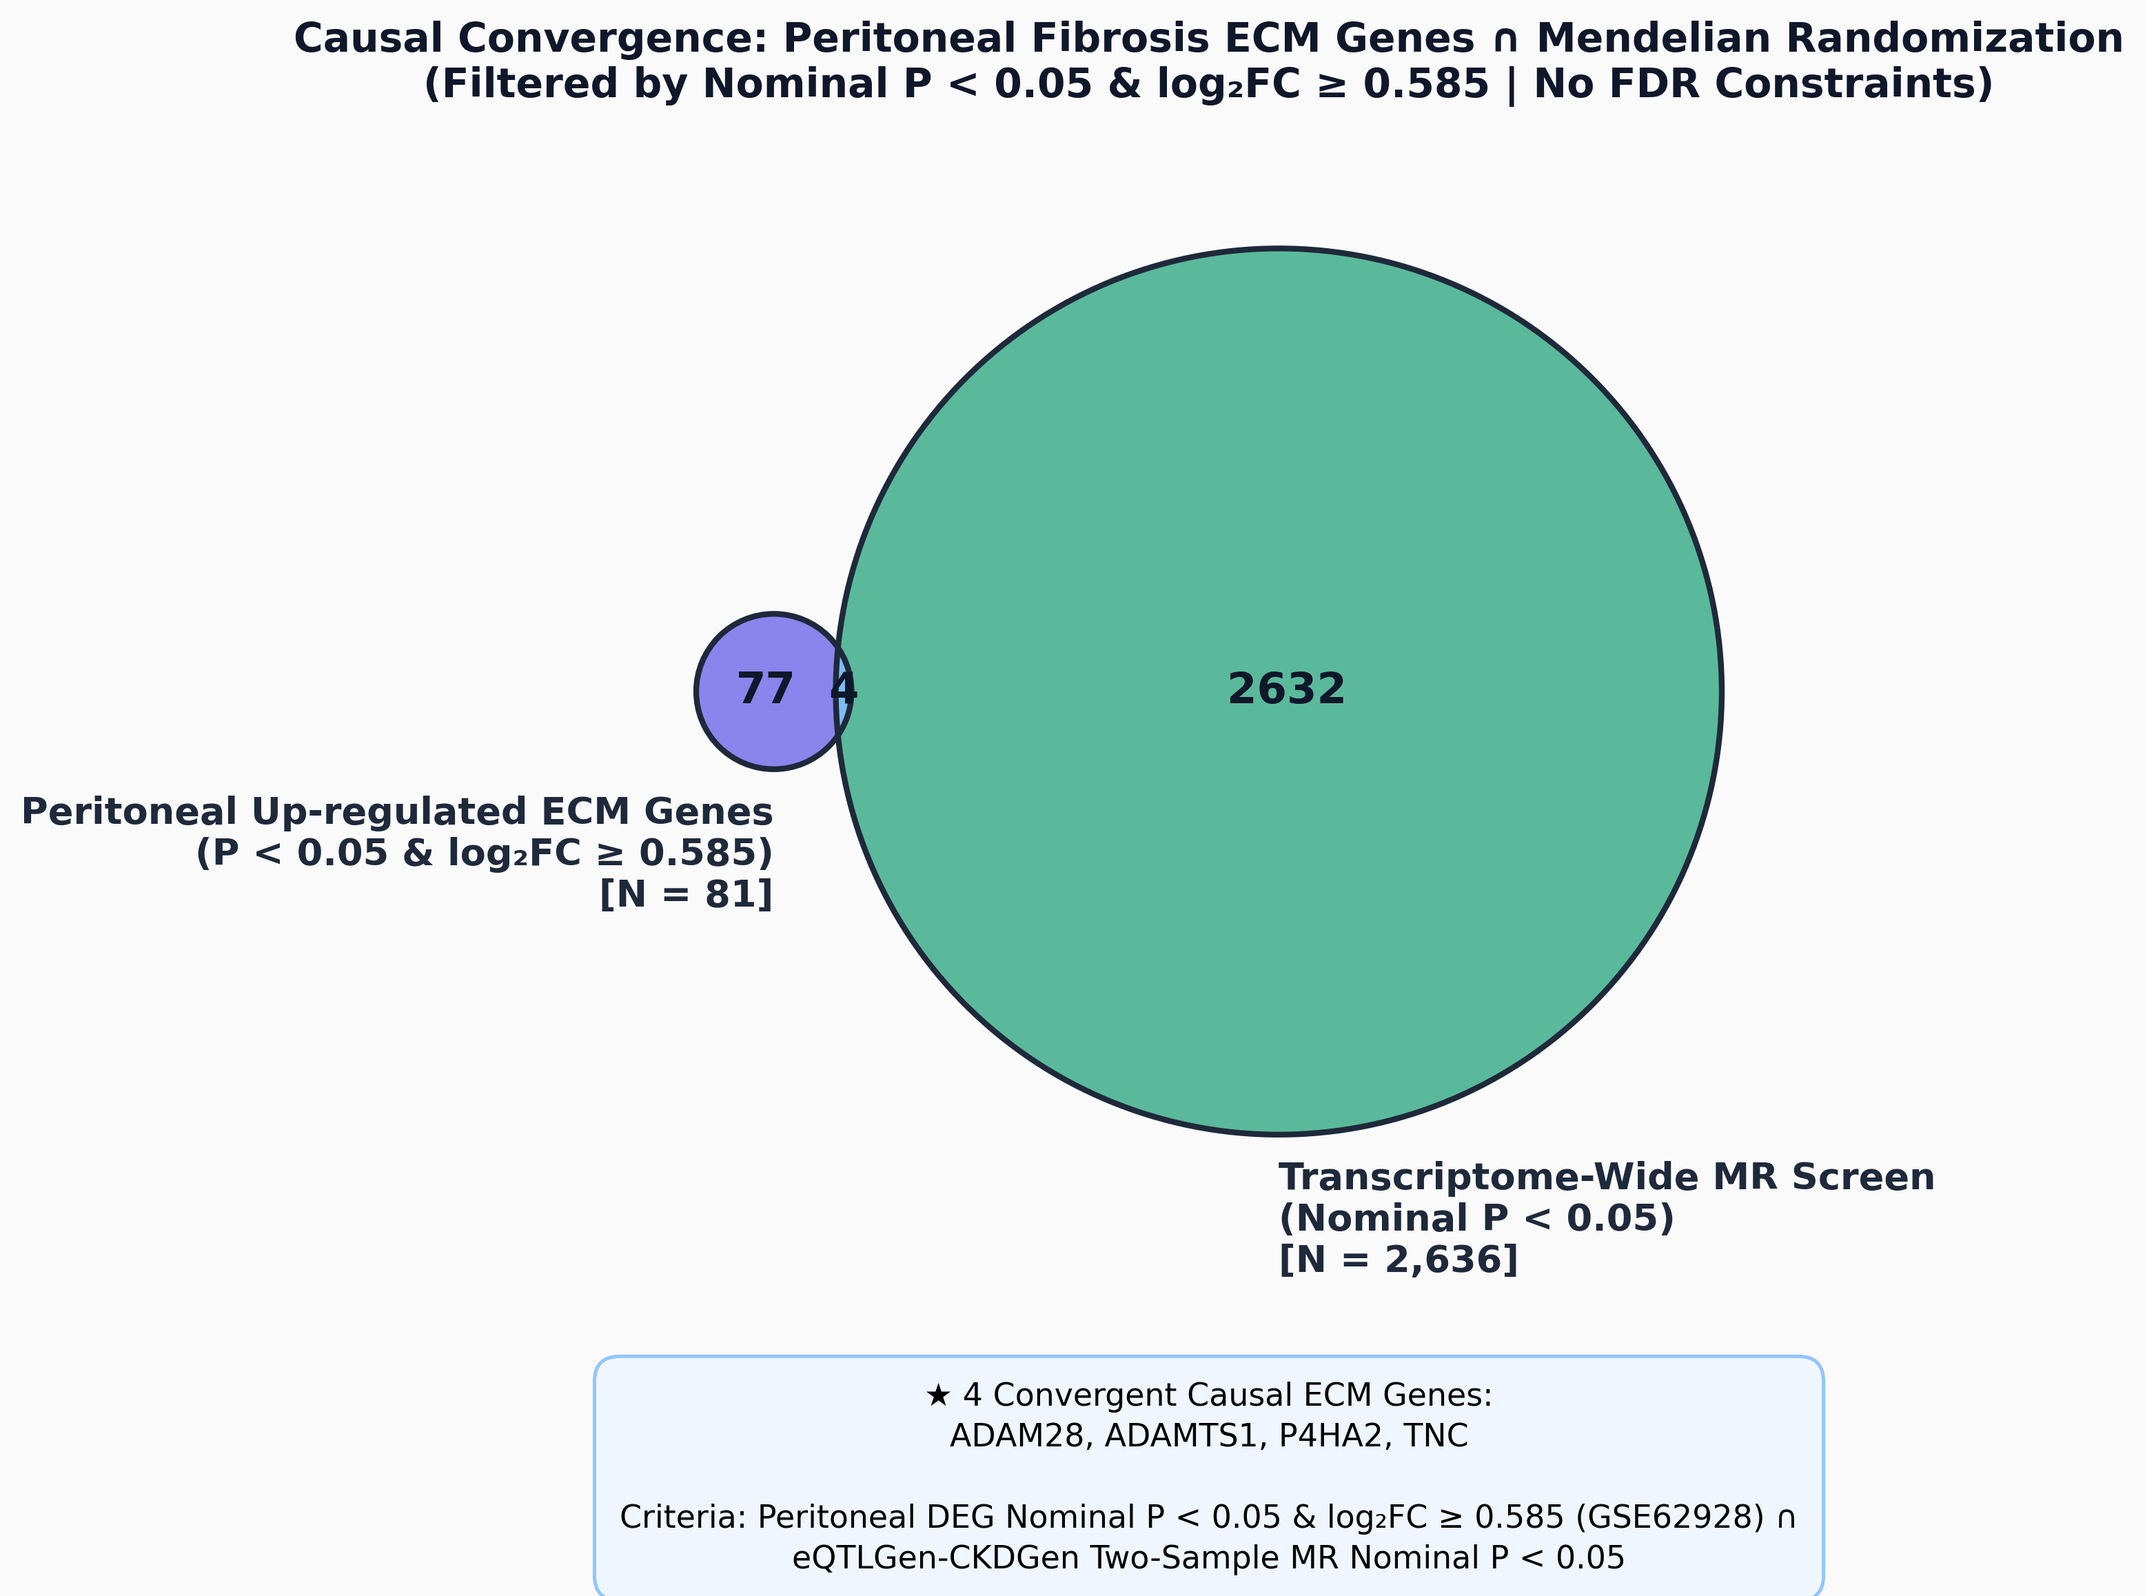
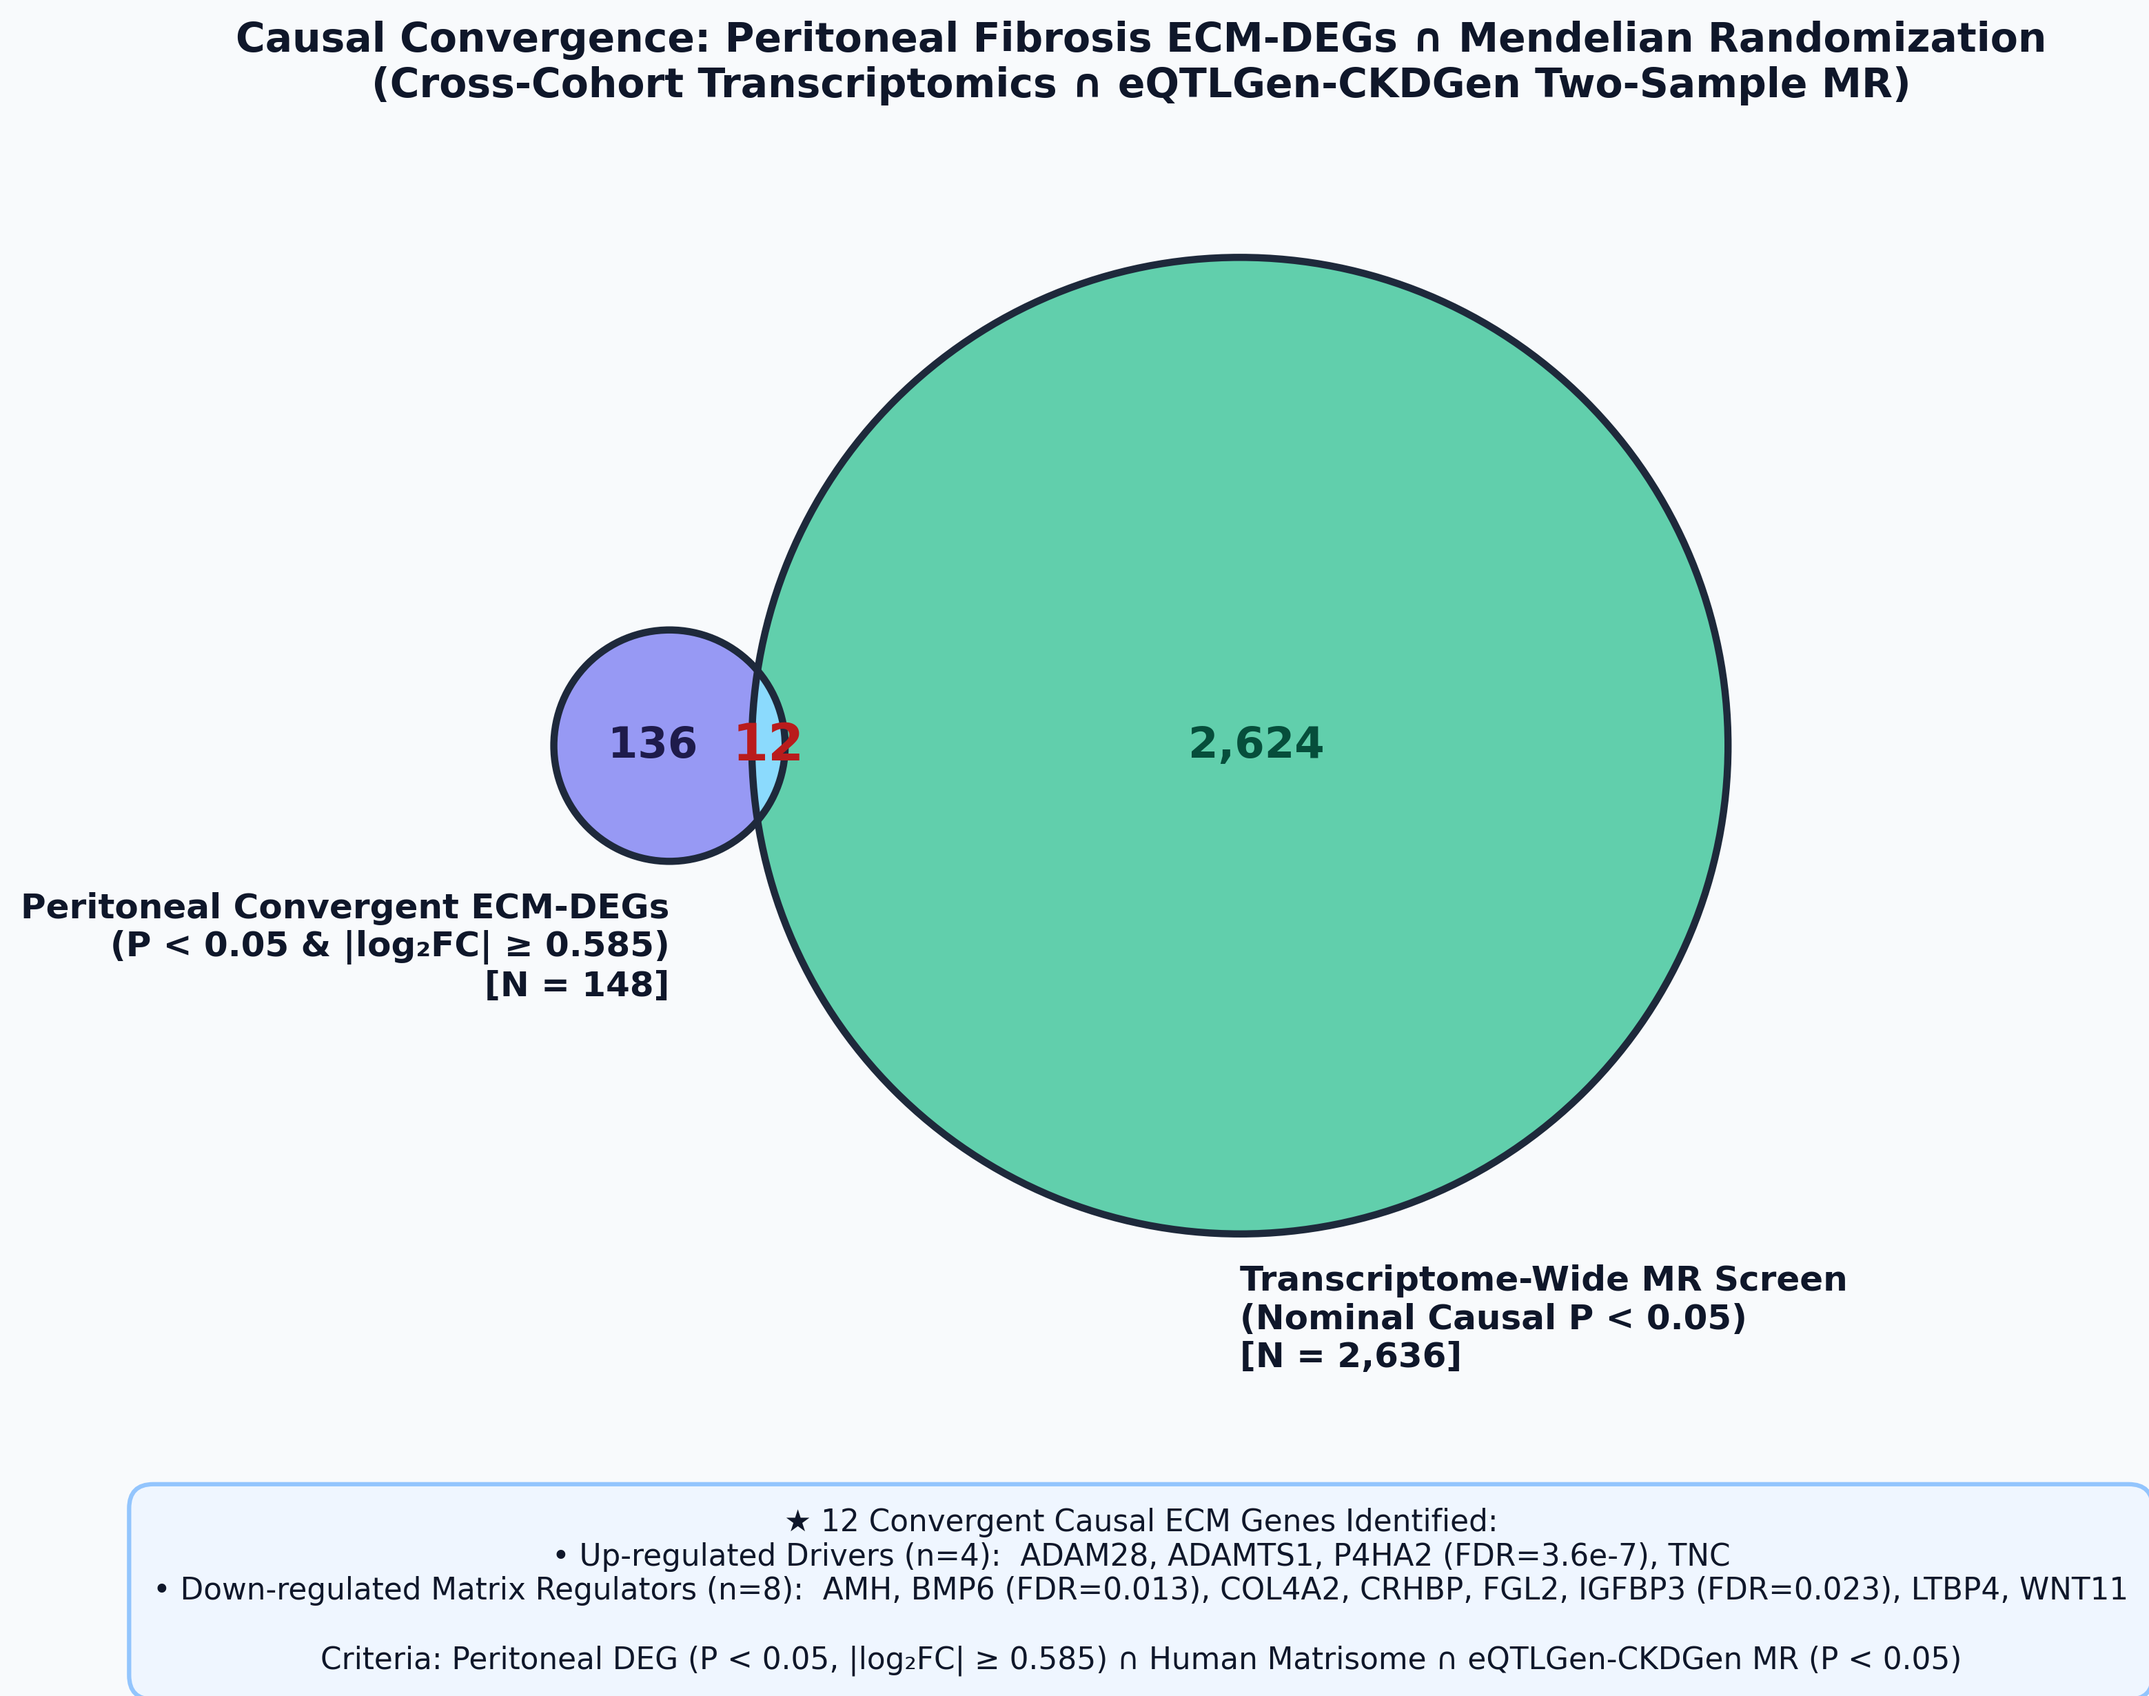
Update Venn diagram convergence to reflect all 12 causal ECM-DEGs (drivers and matrix regulators)

diff --git a/generate_12_gene_venn.py b/generate_12_gene_venn.py
@@ -1,0 +1,103 @@
+import os
+import pandas as pd
+import matplotlib.pyplot as plt
+from matplotlib_venn import venn2, venn2_circles
+
+# 1. Load Data
+df_ecm_deg = pd.read_csv('convergent_ECM_DEGs_nominal.csv')
+df_mr_sig = pd.read_csv('mr_significant_genes.csv')
+
+# Extract unique gene symbols
+genes_ecm_deg = set(df_ecm_deg['Gene Symbol'].dropna().str.strip().str.upper().unique())
+mr_genes = set(df_mr_sig['GeneSymbol'].dropna().str.strip().str.upper().unique())
+
+# Compute overlap
+overlap_genes = sorted(list(genes_ecm_deg.intersection(mr_genes)))
+
+n_ecm = len(genes_ecm_deg)    # 148 unique genes
+n_mr = len(mr_genes)          # 2636 unique genes
+n_overlap = len(overlap_genes) # 12 unique genes
+
+df_deg_info = df_ecm_deg.drop_duplicates(subset=['Gene Symbol'])
+up_genes = [g for g in overlap_genes if df_deg_info[df_deg_info['Gene Symbol'] == g]['Direction'].values[0] == 'UP']
+down_genes = [g for g in overlap_genes if df_deg_info[df_deg_info['Gene Symbol'] == g]['Direction'].values[0] == 'DOWN']
+
+# 2. Create High-Resolution Publication Figure
+fig, ax = plt.subplots(figsize=(11, 8.5), facecolor="#F8FAFC")
+
+# Proportional Venn diagram
+v = venn2(
+    subsets=(n_ecm - n_overlap, n_mr - n_overlap, n_overlap),
+    set_labels=(f'Peritoneal Convergent ECM-DEGs\n(P < 0.05 & |log₂FC| ≥ 0.585)\n[N = {n_ecm}]', 
+                f'Transcriptome-Wide MR Screen\n(Nominal Causal P < 0.05)\n[N = {n_mr:,}]'),
+    set_colors=('#6366F1', '#10B981'),
+    alpha=0.65,
+    ax=ax
+)
+
+# Custom circle borders
+circles = venn2_circles(
+    subsets=(n_ecm - n_overlap, n_mr - n_overlap, n_overlap),
+    linestyle='solid',
+    linewidth=2.5,
+    color='#1E293B',
+    ax=ax
+)
+
+# Format label text
+for text in v.set_labels:
+    if text:
+        text.set_fontsize(12)
+        text.set_fontweight('bold')
+        text.set_color('#0F172A')
+
+if v.get_label_by_id('10'):
+    v.get_label_by_id('10').set_text(str(n_ecm - n_overlap))
+    v.get_label_by_id('10').set_fontsize(15)
+    v.get_label_by_id('10').set_fontweight('bold')
+    v.get_label_by_id('10').set_color('#1E1B4B')
+
+if v.get_label_by_id('01'):
+    v.get_label_by_id('01').set_text(f"{n_mr - n_overlap:,}")
+    v.get_label_by_id('01').set_fontsize(15)
+    v.get_label_by_id('01').set_fontweight('bold')
+    v.get_label_by_id('01').set_color('#064E3B')
+
+if v.get_label_by_id('11'):
+    v.get_label_by_id('11').set_text(str(n_overlap))
+    v.get_label_by_id('11').set_fontsize(18)
+    v.get_label_by_id('11').set_fontweight('bold')
+    v.get_label_by_id('11').set_color('#B91C1C')
+
+# Title
+ax.set_title("Causal Convergence: Peritoneal Fibrosis ECM-DEGs ∩ Mendelian Randomization\n(Cross-Cohort Transcriptomics ∩ eQTLGen-CKDGen Two-Sample MR)", 
+             fontsize=14, fontweight='bold', color='#0F172A', pad=25)
+
+# Annotation Box for the 12 Causal Genes
+box_text = (
+    "★ 12 Convergent Causal ECM Genes Identified:\n"
+    "• Up-regulated Drivers (n=4):  ADAM28, ADAMTS1, P4HA2 (FDR=3.6e-7), TNC\n"
+    "• Down-regulated Matrix Regulators (n=8):  AMH, BMP6 (FDR=0.013), COL4A2, CRHBP, FGL2, IGFBP3 (FDR=0.023), LTBP4, WNT11\n\n"
+    "Criteria: Peritoneal DEG (P < 0.05, |log₂FC| ≥ 0.585) ∩ Human Matrisome ∩ eQTLGen-CKDGen MR (P < 0.05)"
+)
+
+ax.text(
+    0.5, -0.16, box_text,
+    transform=ax.transAxes,
+    fontsize=10.5,
+    fontweight='medium',
+    ha='center',
+    va='top',
+    color='#0F172A',
+    bbox=dict(boxstyle='round,pad=0.8', facecolor='#EFF6FF', edgecolor='#93C5FD', linewidth=1.5)
+)
+
+plt.tight_layout()
+
+# Save figures
+os.makedirs("transcriptome_wide_mr_results", exist_ok=True)
+plt.savefig("venn_mr_deg_convergence.png", dpi=300, bbox_inches="tight", facecolor=fig.get_facecolor())
+plt.savefig("transcriptome_wide_mr_results/venn_mr_deg_convergence.png", dpi=300, bbox_inches="tight", facecolor=fig.get_facecolor())
+plt.savefig("transcriptome_wide_mr_results/venn_12_causal_convergence.png", dpi=300, bbox_inches="tight", facecolor=fig.get_facecolor())
+
+print(f"[SUCCESS] 12-gene Venn diagram successfully generated!")
